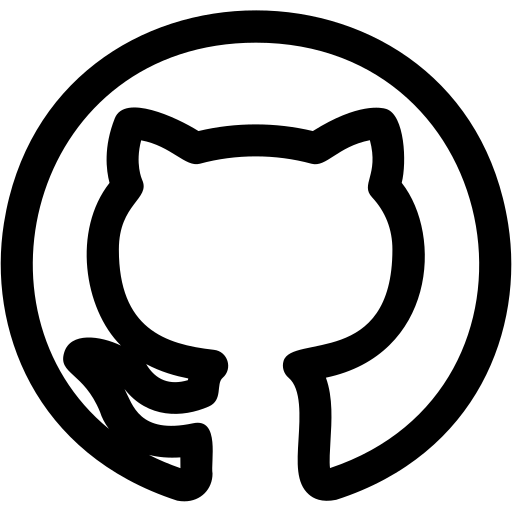
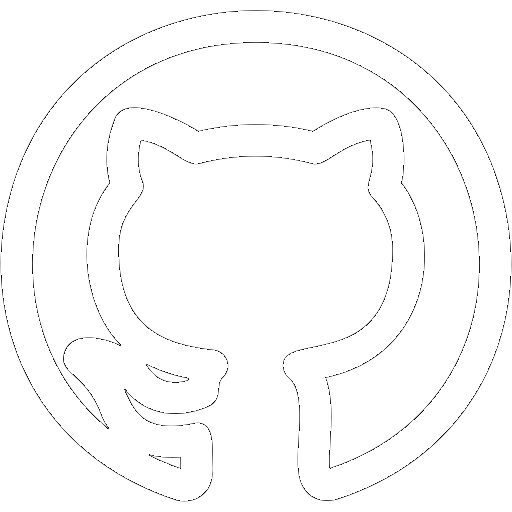
mejorados los contenidos , agregado un borde blanco en perfil y arregladas las tecnologias

diff --git a/css/styles.css b/css/styles.css
@@ -40,7 +40,7 @@ a {
 .container{
     width: 100%;
     height: 100vh;
-    margin: 0px auto;
+
 }
 
 .perfil{
@@ -48,25 +48,25 @@ a {
     display: flex;
     flex-direction: column;
     color: #333333;
-    justify-content: center;
     align-items: center;
     padding: 2rem;
     background-image: url("https://raw.githubusercontent.com/pablobarriaaguilar/Portafolio/main/assets/fondo2.gif");
     background-repeat: no-repeat;
     background-size: cover;
+    border-style: solid;
     
 }
 
 
 .card{
-    margin-top: 25px;
     width: 600px;
-    height: 400px;
+    height: 300px;
     background-color: transparent;
     display: flex;
     flex-direction: column;
     align-items: center;
     color: #F7F7F7;
+    border-style: solid;
 }
 
 .card > .image > img{
@@ -76,6 +76,7 @@ a {
     height: 100px;
     display: flex;
     justify-content: center;
+    border-style: solid;
     
 }
 
@@ -104,30 +105,34 @@ a {
     height: 100%;
     display: flex;
     color: #eae6e6;
-    flex-direction: column;
-    background-image: url(/assets/fondo3.gif);
     background-repeat: no-repeat;
     background-size: cover;
+    flex-direction: column;
+    align-items: center;
 
-    display: none;
+    
 
     
     
 }
 .tecTitle{
-    display: flex;
+    
+    margin-top: 150px;
     font-size: 24px; 
-    justify-content: center;
     color: #F7F7F7;
+    
+    
+
 }
 
 
 .tecContainer{
-    width: 100%;
+    width: 900px;
     display: flex;
     justify-content: space-around;
-    height: 600px;
+    height: 200px;
     align-items: center;
+    
 }
 
 
@@ -141,5 +146,5 @@ a {
 }
 
 .img-round{
-
+color: #F7F7F7;
 }

diff --git a/index.html b/index.html
@@ -36,31 +36,20 @@
                 </p>
             </div>
             </div>
+            <div class="tecnologias" id="tecnologias">
             <div class="tecTitle">
                 <div><h1>Tecnologías</h1></div>
             </div>
             <div class="tecContainer">
-            <div class="tec"><img src="./assets/git2.png" alt="" srcset=""></div>
+            <div class="tec"><img src="./assets/git3.png" class="img-round"  alt="" srcset=""></div>
             <div class="tec"><img src="./assets/html5.png" alt="" srcset=""></div>
             <div class="tec"><img src="./assets/Javascript.png" alt="" srcset=""></div>
             <div class="tec"><img src="./assets/netcore.png" alt="" srcset=""></div>
             
         </div>
         </div>
-        <div class="tecnologias" id="tecnologias">
-            <div class="tecTitle">
-                <div><h1>Tecnologías</h1></div>
-            </div>
-            <div class="tecContainer">
-            <div class="tec"><img src="./assets/git.svg" alt="" srcset="" class="img-round"></div>
-            <div class="tec"><img src="./assets/html5.png" alt="" srcset=""></div>
-            <div class="tec"><img src="./assets/Javascript.png" alt="" srcset=""></div>
-            <div class="tec"><img src="./assets/netcore.png" alt="" srcset=""></div>
-            
         </div>
-            
-        </div>
-        <div class="proyectos" id="proyectos">dfgdgdgdfg</div>
-    </div>
+       
+     
 </body>
 </html>
